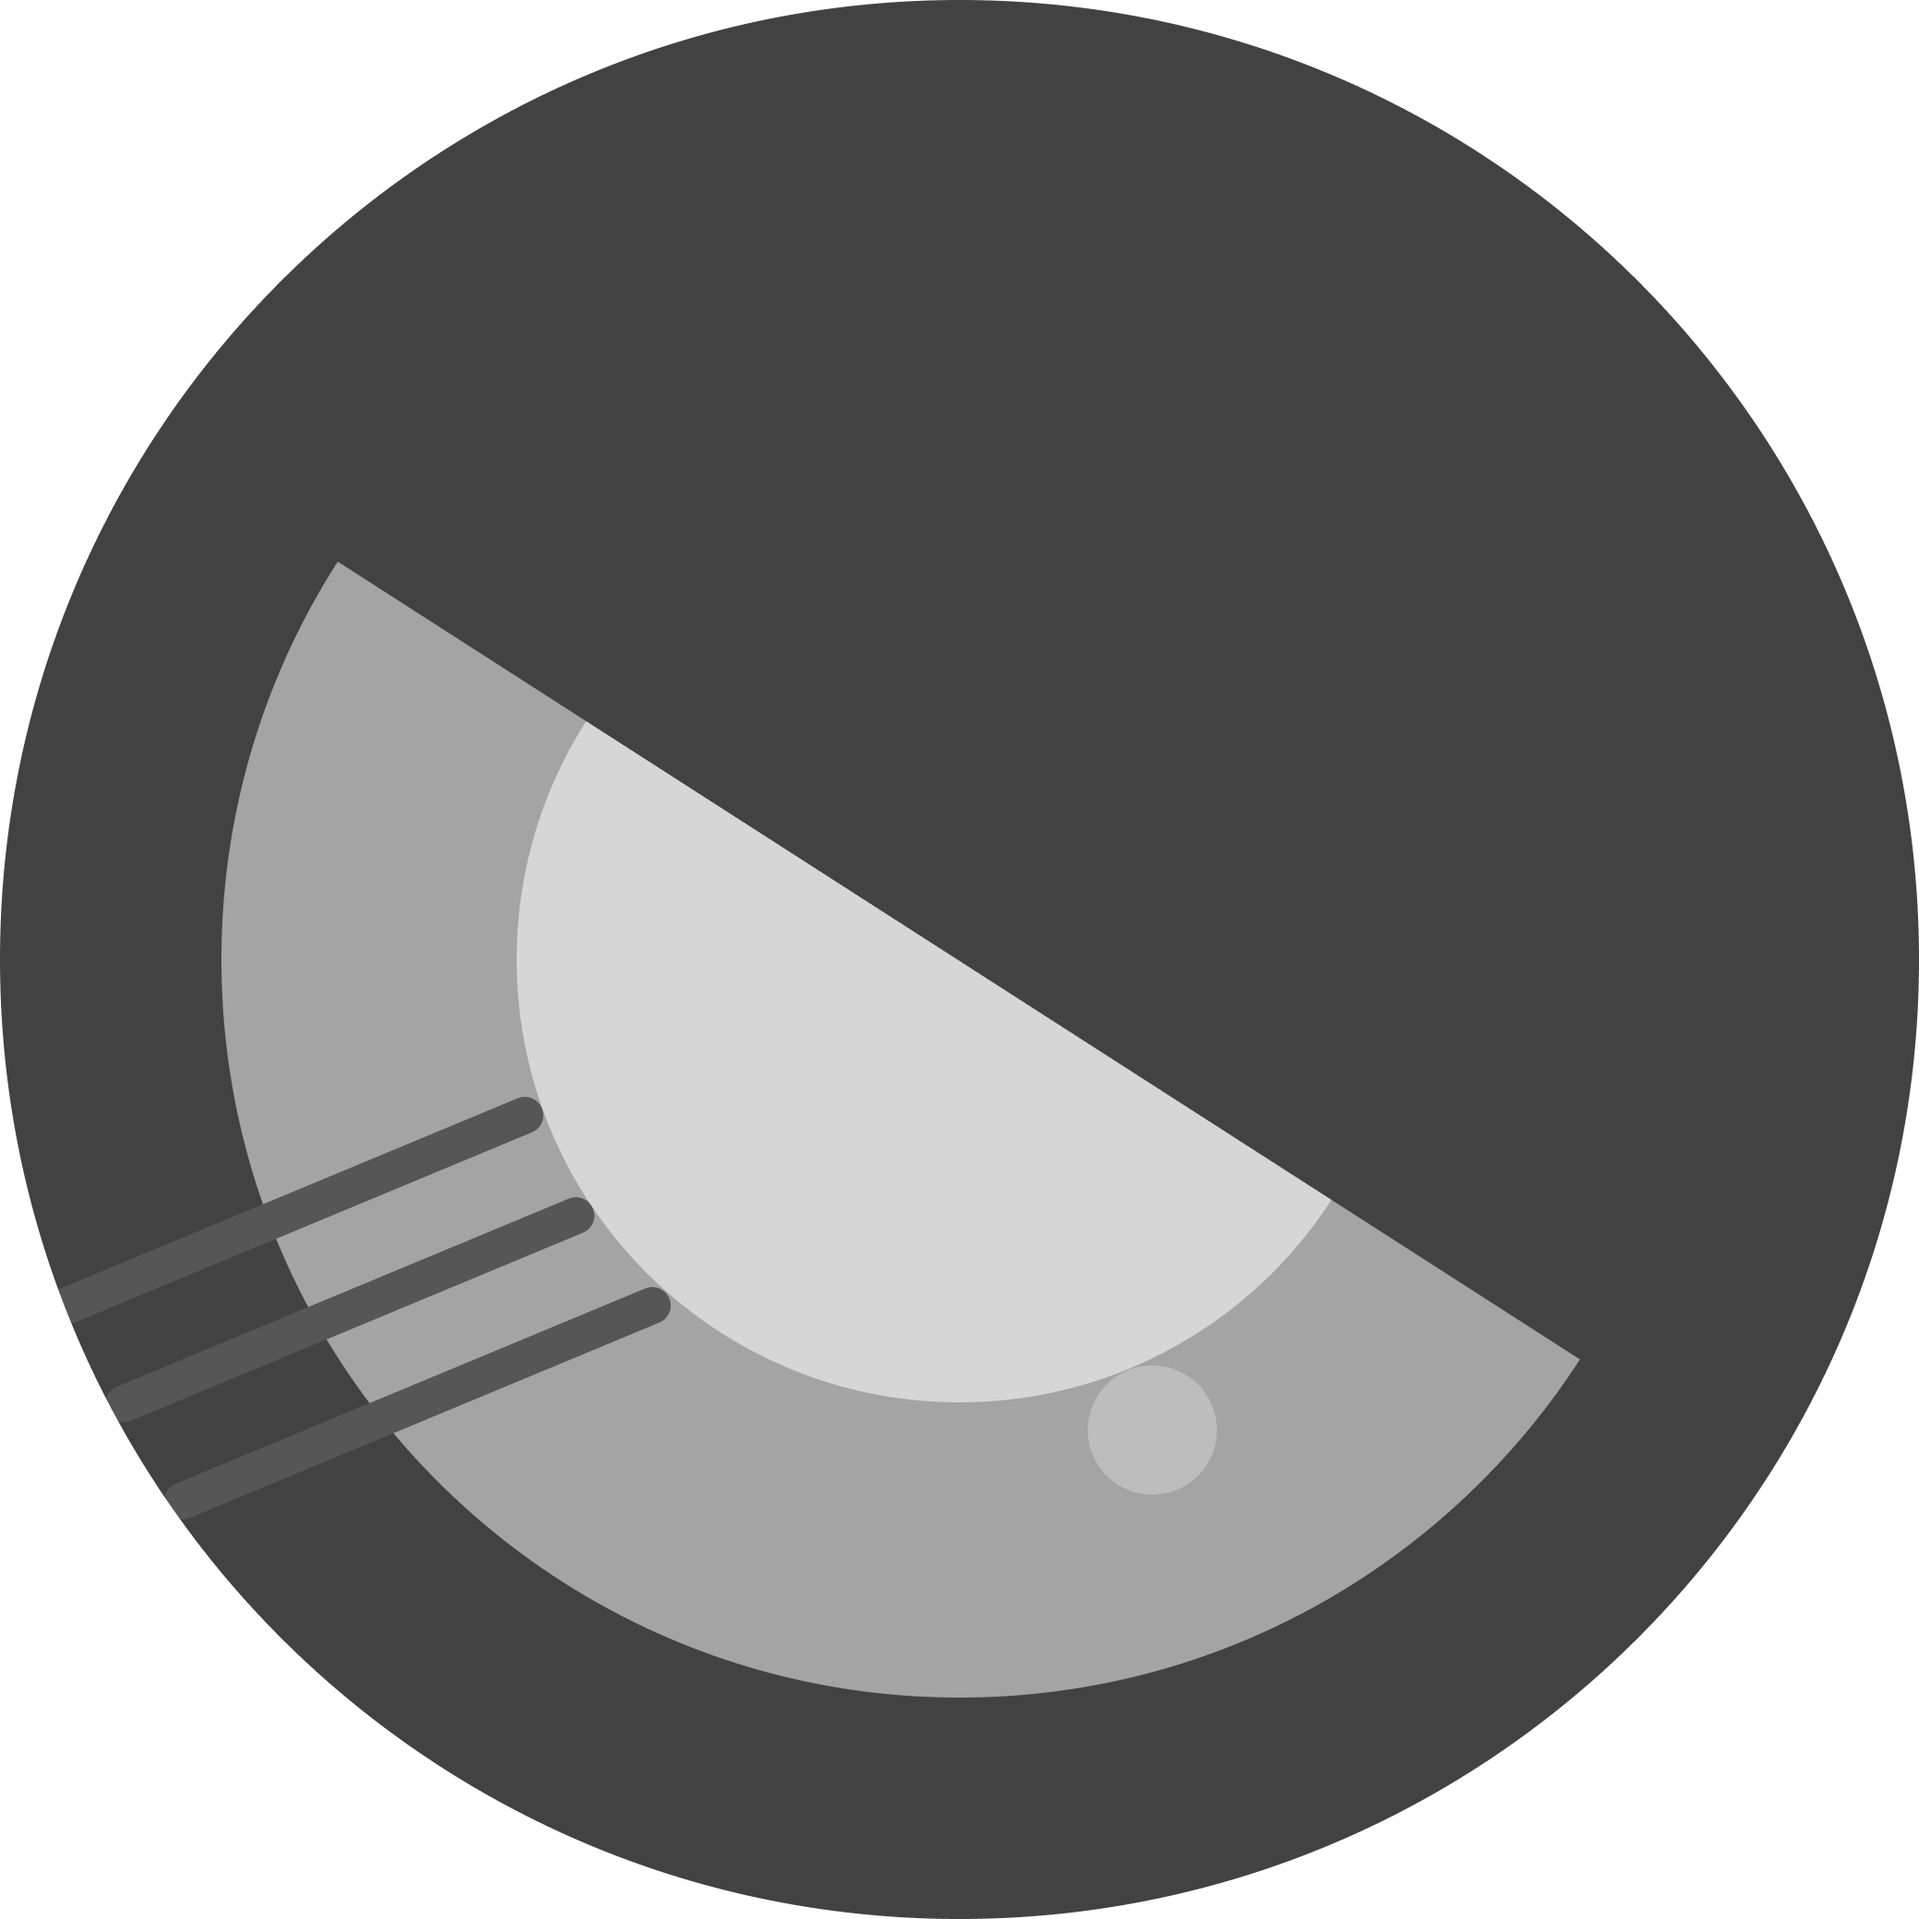
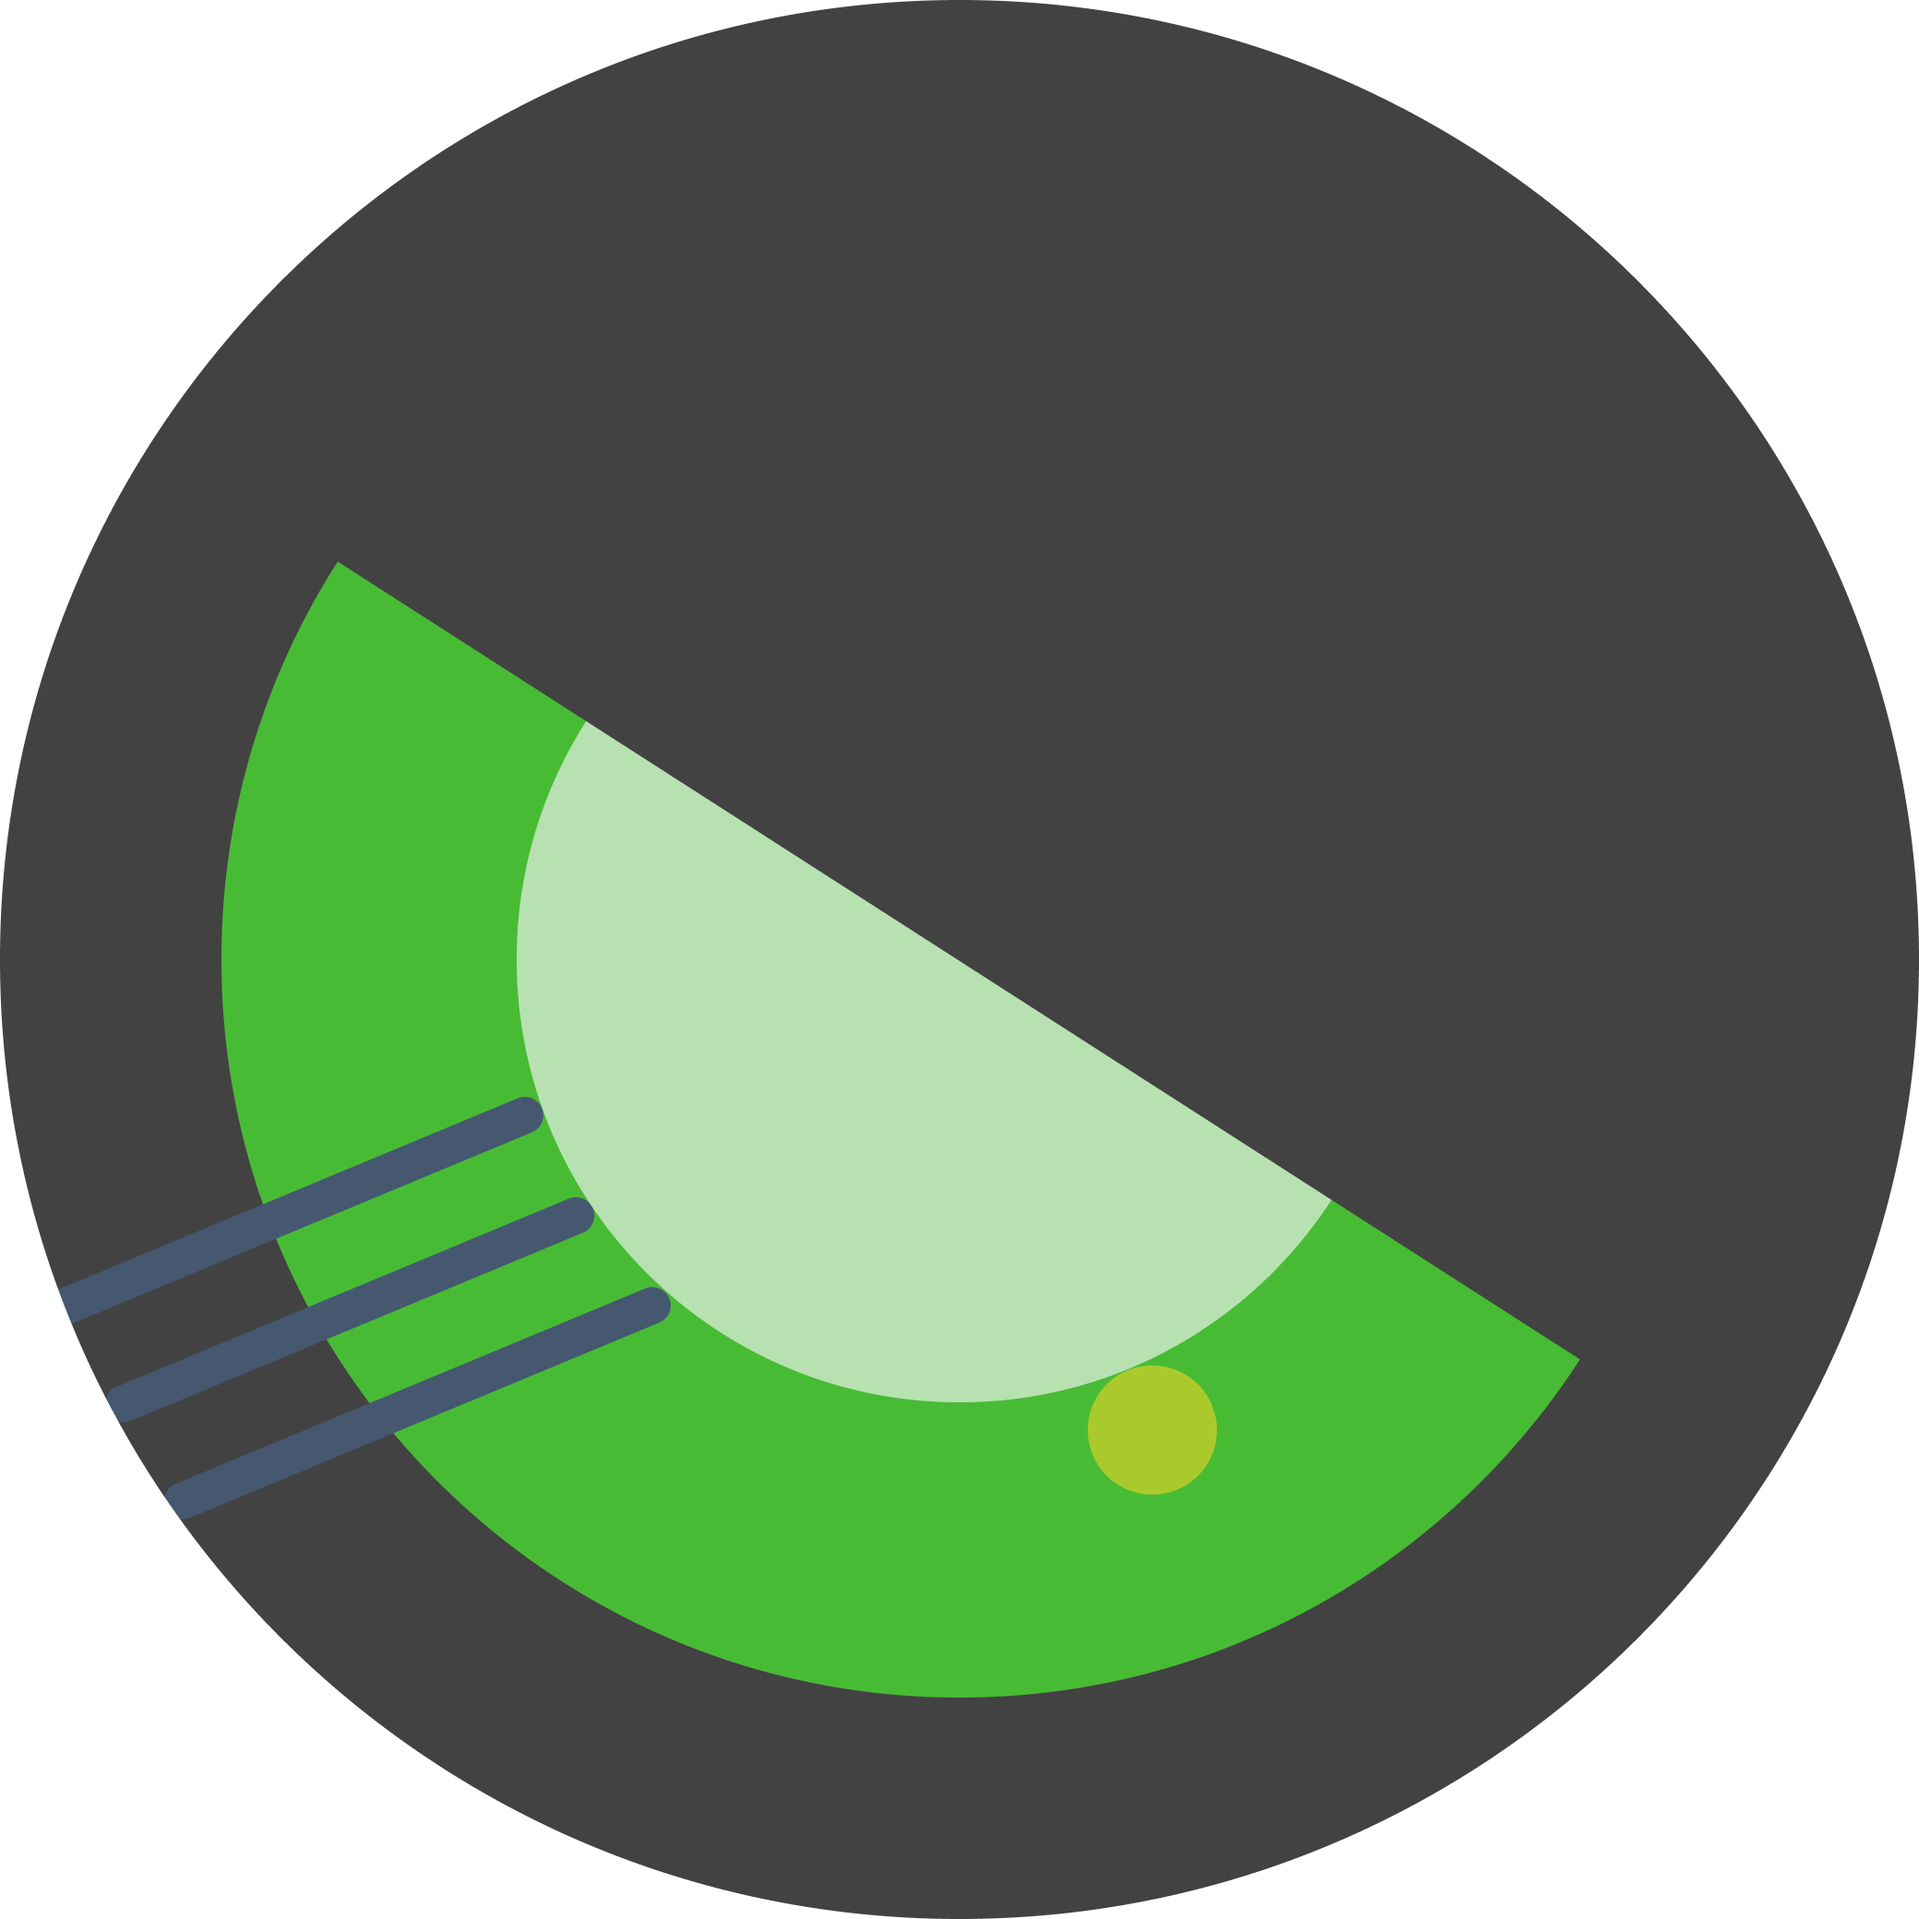
fix

Changed region(s): [[0.0312, 0.2812, 0.8438, 0.9062]]

diff --git a/components/common/DetailsImage.tsx b/components/common/DetailsImage.tsx
@@ -1,26 +1,26 @@
 import "./DetailsImage.scss";
 import React, { useEffect } from "react";
 import ImagePostProcess from "./ImagePostProcess";
-import {
-  Scene,
-  OrthographicCamera,
-  WebGLRenderer,
-  PlaneBufferGeometry,
-  RawShaderMaterial,
-  Mesh,
-  Vector2,
-  TextureLoader
-} from "three";
+// import {
+//   Scene,
+//   OrthographicCamera,
+//   WebGLRenderer,
+//   PlaneBufferGeometry,
+//   RawShaderMaterial,
+//   Mesh,
+//   Vector2,
+//   TextureLoader
+// } from "three";
 
-const vert = require("../shaders/DetailsImage/index.vert");
-const frag = require("../shaders/DetailsImage/index.frag");
+// const vert = require("../shaders/DetailsImage/index.vert");
+// const frag = require("../shaders/DetailsImage/index.frag");
 
-type AnimateParams = {
-  scene: Scene;
-  camera: OrthographicCamera;
-  renderer: WebGLRenderer;
-  uniforms: any;
-};
+// type AnimateParams = {
+//   scene: Scene;
+//   camera: OrthographicCamera;
+//   renderer: WebGLRenderer;
+//   uniforms: any;
+// };
 
 const DetailsImage: React.FC<{ img: string; href: string }> = ({
   img,

diff --git a/components/partials/Details/Details.scss b/components/partials/Details/Details.scss
@@ -6,5 +6,7 @@
   justify-content: center;
   align-items: center;
   flex-wrap: wrap;
-  background: linear-gradient(150deg, #1d1d1d 50%, #c22f2f 200%);
+  background: transparent;
+  background: linear-gradient(150deg, #1d1d1d 50%, #48BB35 200%);
+  // background: linear-gradient(150deg, #1d1d1d 50%, #c22f2f 200%);
 }

diff --git a/pages/_app.tsx b/pages/_app.tsx
@@ -1,6 +1,7 @@
 import "../assets/style/global.scss";
 import Header from "../components/common/Header";
 import Head from "next/head";
+import Main from "../components/partials/Home/Main";
 
 const Did0esMe = ({
   Component,

diff --git a/components/common/DetailsImage.scss b/components/common/DetailsImage.scss
@@ -5,3 +5,9 @@
   display: flex;
   justify-content: center;
 }
+
+// .DetailsImage {
+//   position: fixed;
+//   width: 100%;
+//   height: 100%;
+// }
